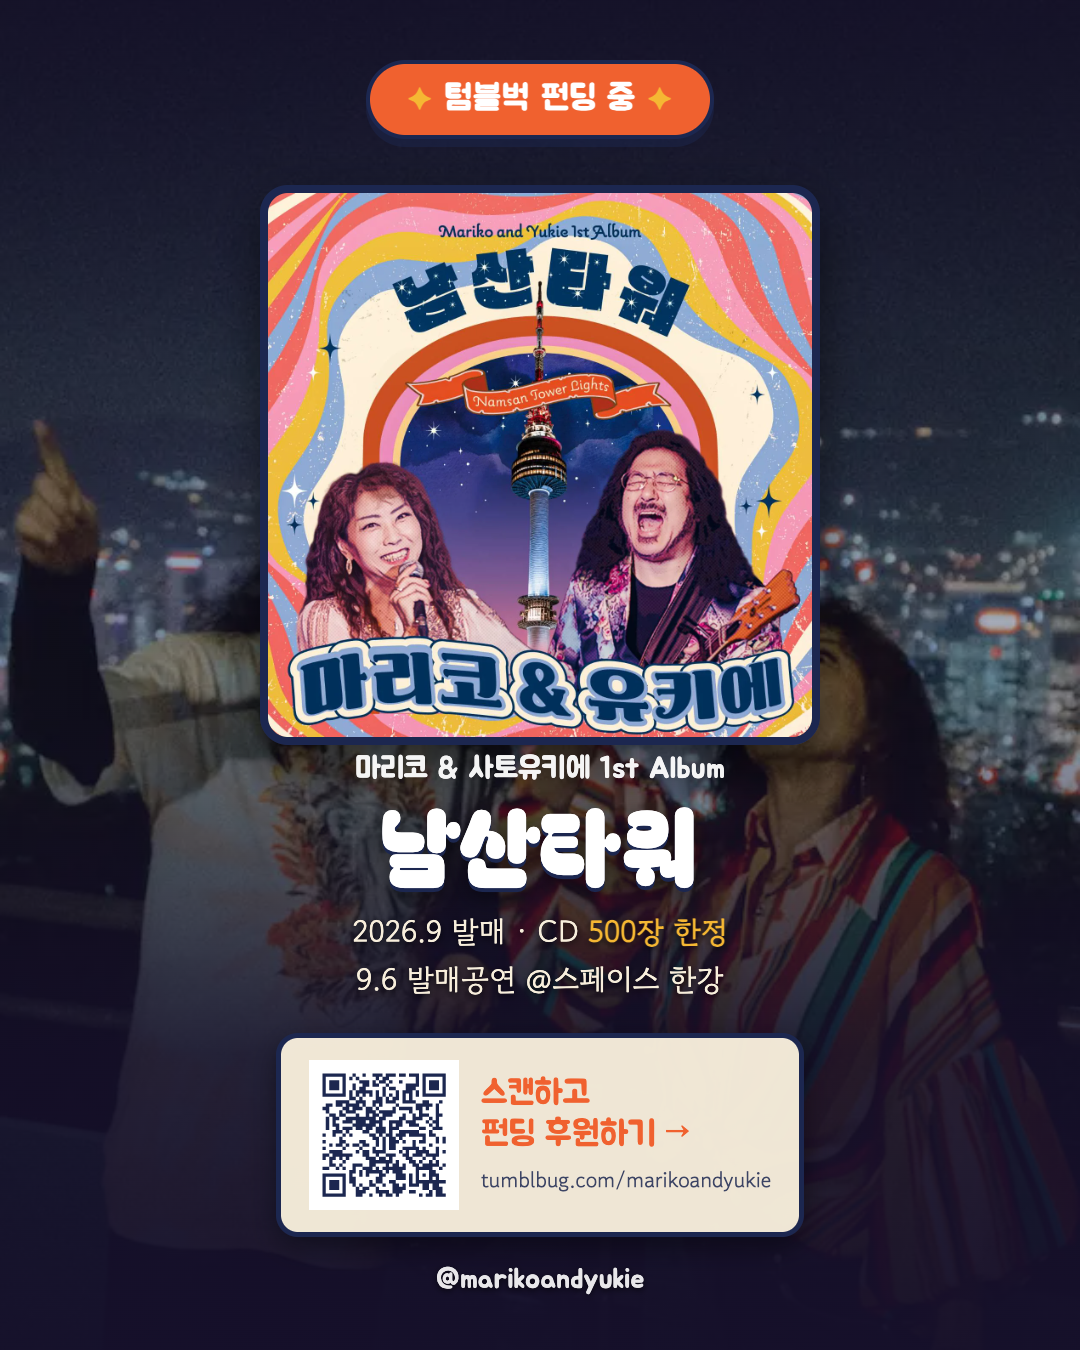
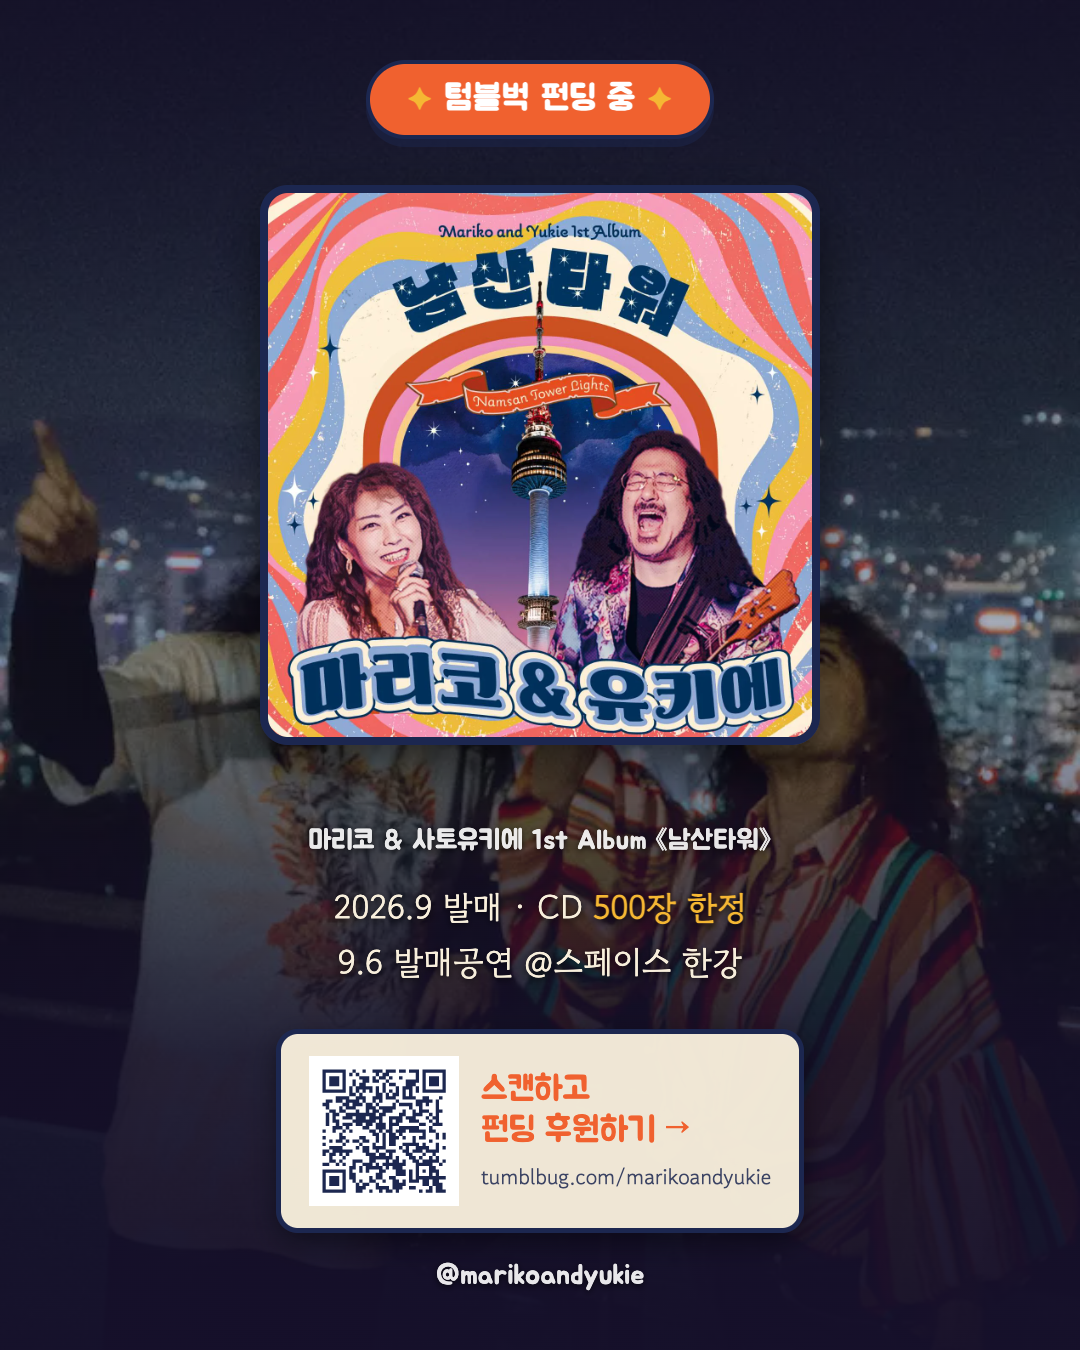
Remove redundant lower title from funding posters (ko/ja)
Album cover already carries the 남산타워/南山タワー title and artist names,
so the large lower .title was duplicative. Dropped it; album-line is now a
small supporting caption including the album name, and the freed space is
redistributed to release info, CTA breathing room, and balance. Re-captured
both 1080x1350 PNGs.

Changed region(s): [[0.2444, 0.56, 0.7333, 0.9644]]

diff --git a/_workspace/posters/poster.html b/_workspace/posters/poster.html
@@ -58,23 +58,19 @@
   /* 텍스트 블록 */
   .meta { margin-top:auto; }
   .album-line {
-    font-family:"Jua", sans-serif; font-size:30px;
-    color:#fff; opacity:.95;
-  }
-  .title {
-    font-family:"Bagel Fat One", sans-serif;
-    font-size:92px; line-height:1.05; color:#fff;
-    margin:6px 0 16px;
-    text-shadow:0 4px 0 var(--navy), 0 8px 22px rgba(0,0,0,.5);
+    font-family:"Jua", sans-serif; font-size:27px;
+    color:#fff; opacity:.9; letter-spacing:.01em;
+    margin-bottom:22px;
+    text-shadow:0 2px 6px rgba(0,0,0,.7);
   }
   .info {
-    font-size:30px; line-height:1.6; color:var(--cream);
+    font-size:33px; line-height:1.65; color:var(--cream);
     text-shadow:0 2px 6px rgba(0,0,0,.7);
   }
   .info b { color:var(--yellow); }
   /* QR 영역 */
   .cta {
-    margin-top:30px; display:inline-flex; align-items:center; gap:22px;
+    margin-top:40px; display:inline-flex; align-items:center; gap:22px;
     background:rgba(248,239,220,.96); border:5px solid var(--navy);
     border-radius:22px; padding:22px 28px;
     box-shadow:0 10px 26px rgba(0,0,0,.4);
@@ -95,7 +91,7 @@
   body.ja .poster { font-family:"Zen Maru Gothic", sans-serif; }
   body.ja .ribbon, body.ja .album-line, body.ja .cta .txt .lead, body.ja .handle { font-family:"Zen Maru Gothic", sans-serif; font-weight:700; }
   body.ja .ribbon { font-size:31px; }
-  body.ja .title { font-family:"Mochiy Pop One", sans-serif; font-size:80px; }
+  body.ja .album-line { font-size:25px; }
 </style>
 </head>
 <body>
@@ -109,7 +105,6 @@
       </div>
       <div class="meta">
         <div class="album-line" id="albumLine"></div>
-        <div class="title" id="title"></div>
         <div class="info" id="info"></div>
         <div class="cta">
           <img src="file:///Users/hwang-gyeongha/mariko_yukie/_workspace/posters/qr-tumblbug.png" alt="텀블벅 QR" />
@@ -126,15 +121,13 @@
   const DATA = {
     ko: {
       ribbon: "텀블벅 펀딩 중",
-      albumLine: "마리코 & 사토유키에 1st Album",
-      title: "남산타워",
+      albumLine: "마리코 & 사토유키에 1st Album 《남산타워》",
       info: '2026.9 발매 · CD <b>500장 한정</b><br>9.6 발매공연 @스페이스 한강',
       ctaLead: "스캔하고<br>펀딩 후원하기 →",
     },
     ja: {
       ribbon: "テンバグ ファンディング中",
-      albumLine: "マリコ & サトユキエ 1st Album",
-      title: "南山タワー",
+      albumLine: "マリコ & サトユキエ 1st Album 《南山タワー》",
       info: '2026.9リリース · CD <b>500枚限定</b><br>9.6 リリースライブ @スペース漢江',
       ctaLead: "スキャンして<br>応援する →",
     },
@@ -144,7 +137,6 @@
   const d = DATA[lang];
   ribbon.textContent = d.ribbon;
   albumLine.textContent = d.albumLine;
-  title.textContent = d.title;
   info.innerHTML = d.info;
   ctaLead.innerHTML = d.ctaLead;
 </script>

diff --git a/_workspace/posters/IMPL_REPORT.md b/_workspace/posters/IMPL_REPORT.md
@@ -34,6 +34,11 @@
 - 폰트 정상: ko 제목 Bagel Fat One·본문 Gowun Dodum·강조 Jua / ja 제목 Mochiy Pop One·본문 Zen Maru Gothic. 깨짐 없음.
 - 70년대 사이키델릭·큐트 톤(앨범 커버 무지개 프레임 + 코랄 리본 + 옐로 별)이 야경 위에서 살아있음.
 
+## 개정 (이중 타이틀 해소, 재캡처)
+- 피드백 반영: 커버가 이미 대형 "남산타워/南山タワー" 타이틀+아티스트명을 담고 있어 하단 대형 `.title` 줄을 **제거**.
+- `.album-line`을 작은 보조 캡션(ko 27px·ja 25px)으로 재정의, 앨범명 가볍게 포함: ko `마리코 & 사토유키에 1st Album 《남산타워》`, ja `マリコ & サトユキエ 1st Album 《南山タワー》`.
+- 제목 제거로 생긴 여백은 `.info` 30→33px, `.cta` margin-top 30→40px, album-line 하단 22px로 배분 → 하단 호흡 개선. 발매정보·CTA·핸들 유지.
+- ko/ja 재캡처·재검수: 균형 양호, 가독성·넘침 없음, 두 벌 동등 톤 확인.
+
 ## 남은 우려
-- 앨범 커버 자체에 큰 "남산타워" 타이틀이 있어 포스터 하단 자체 타이틀과 다소 중복. 가독성·강조 목적상 유지했으나, 원하면 하단 타이틀 제거 또는 축소 가능.
-- QR은 화면상 또렷하나 실제 인쇄/모바일 스캔은 게시 전 1회 실측 권장(목적지 URL 자체는 검증 완료).
+- 특이사항 없음(이중 타이틀 해소됨). QR은 화면상 또렷하나 게시 전 실측 스캔 1회 권장(목적지 URL 검증 완료).
